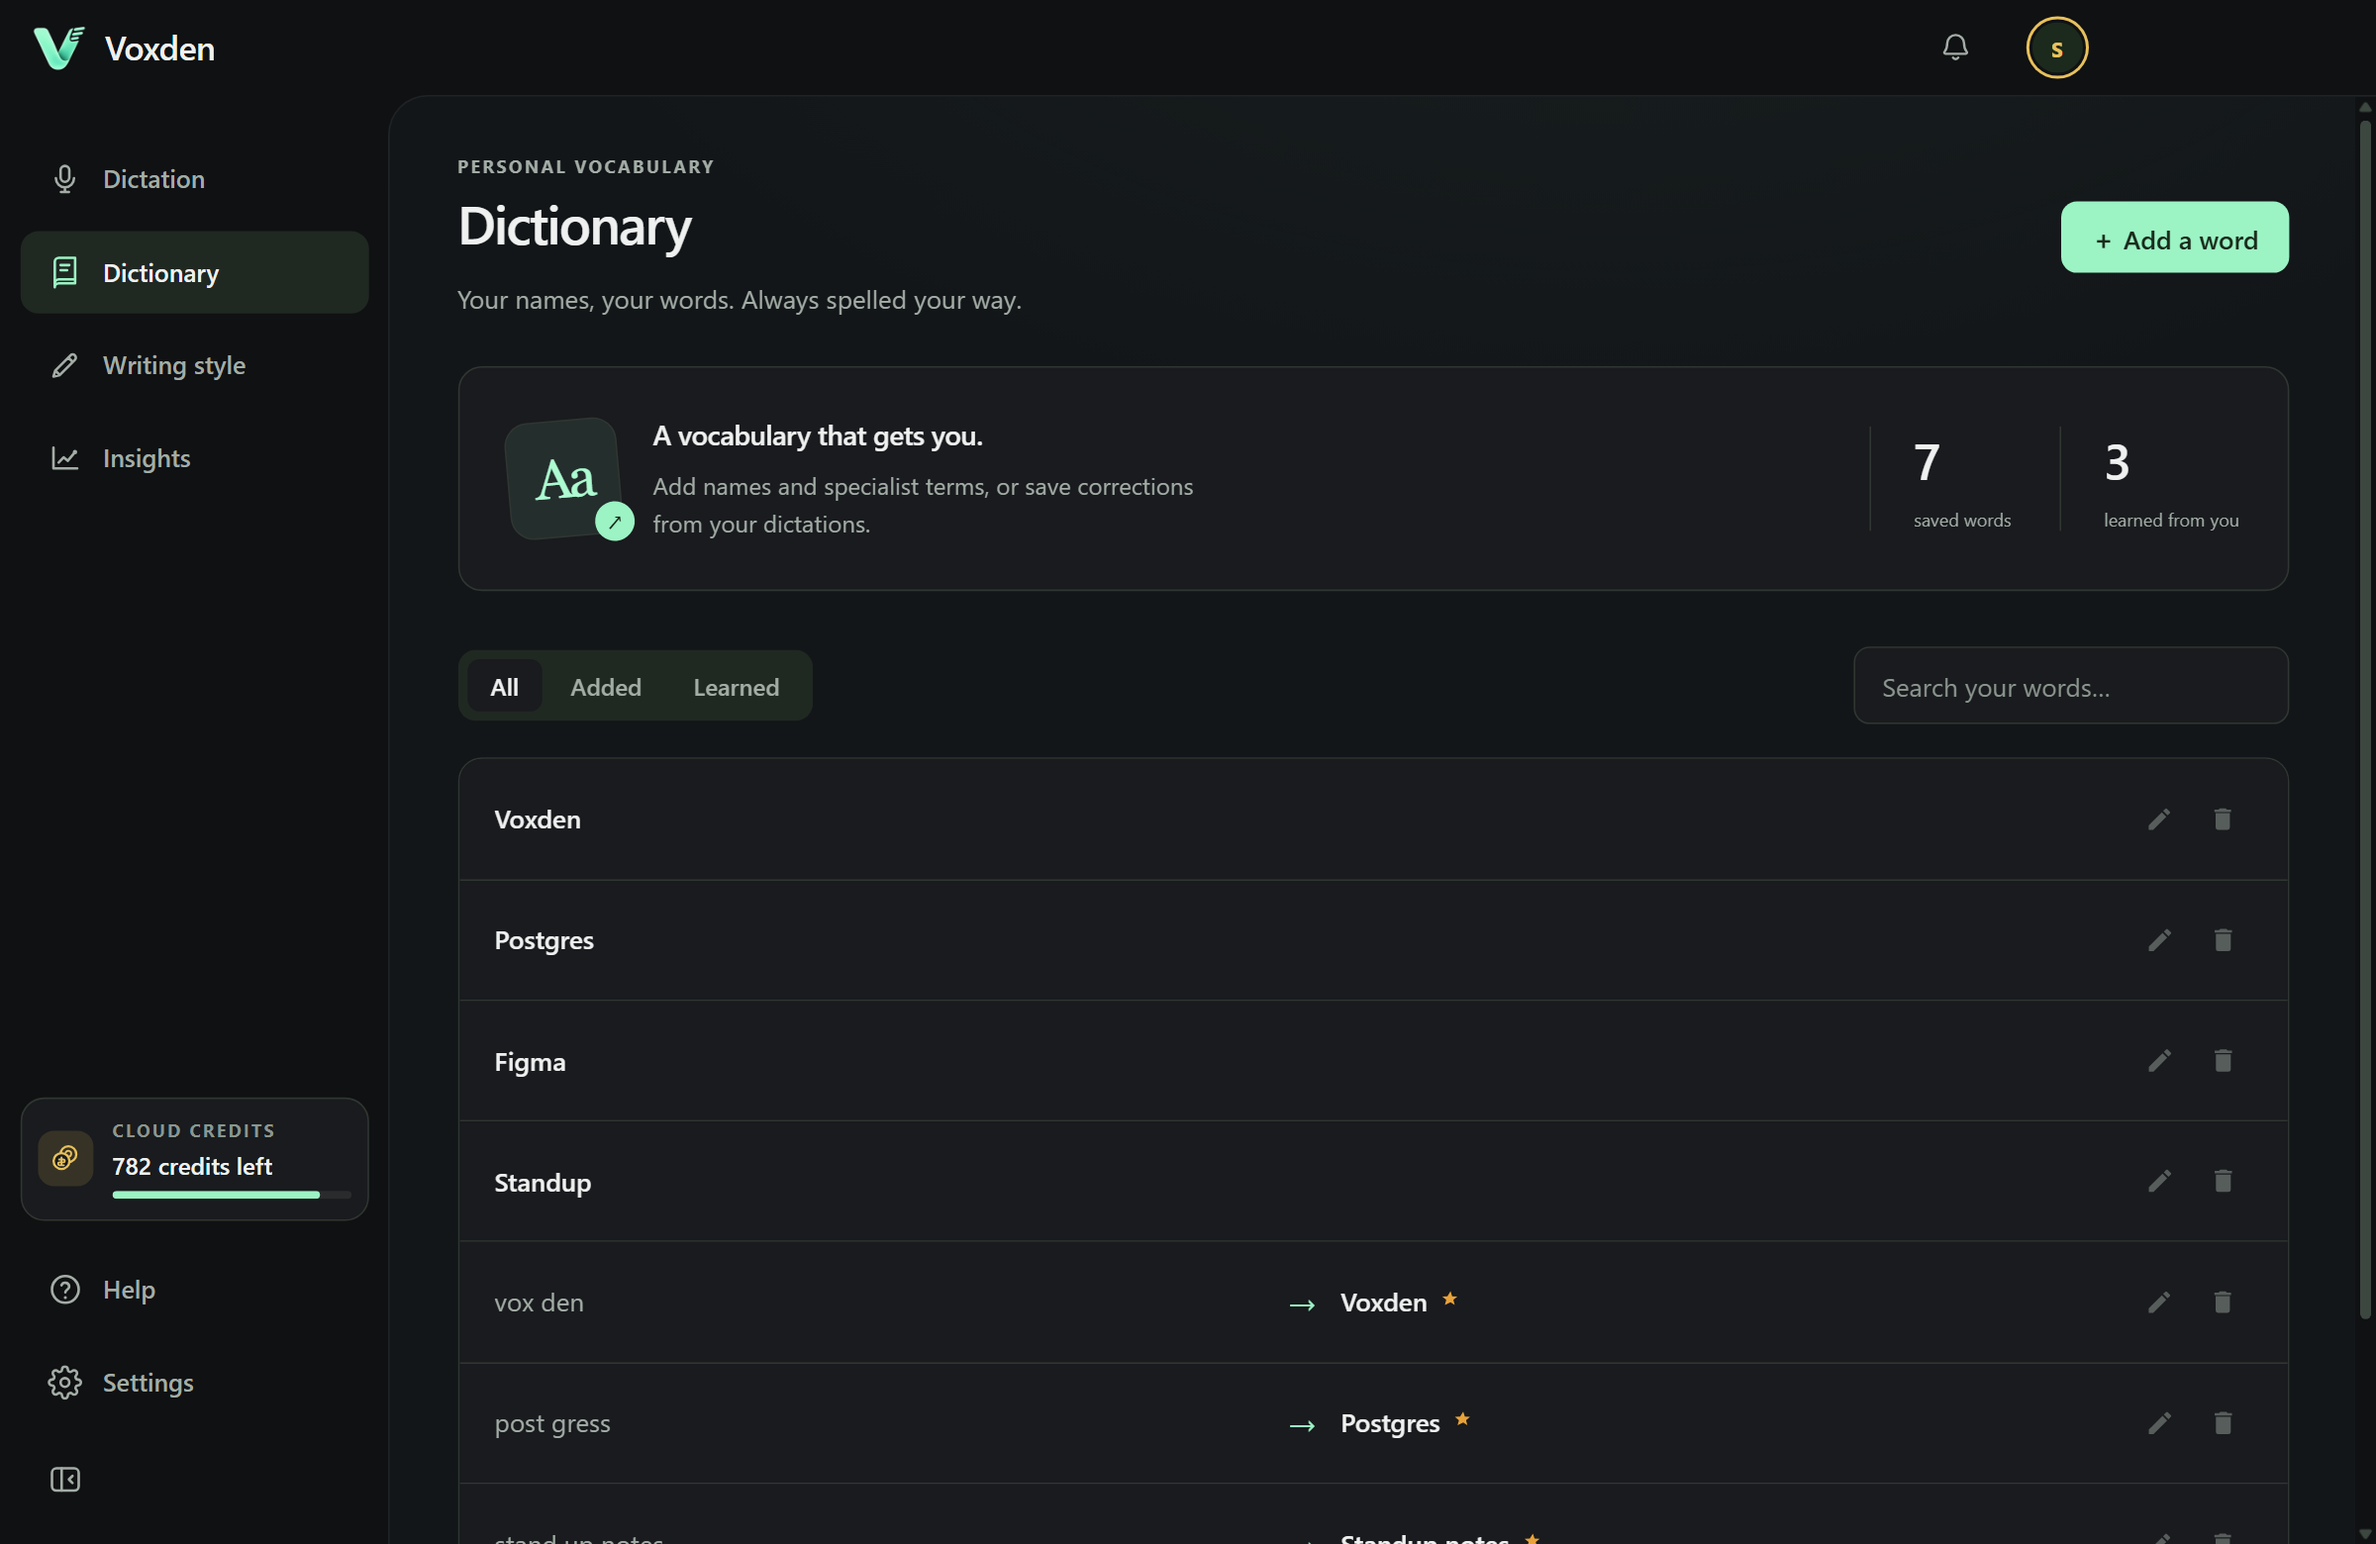
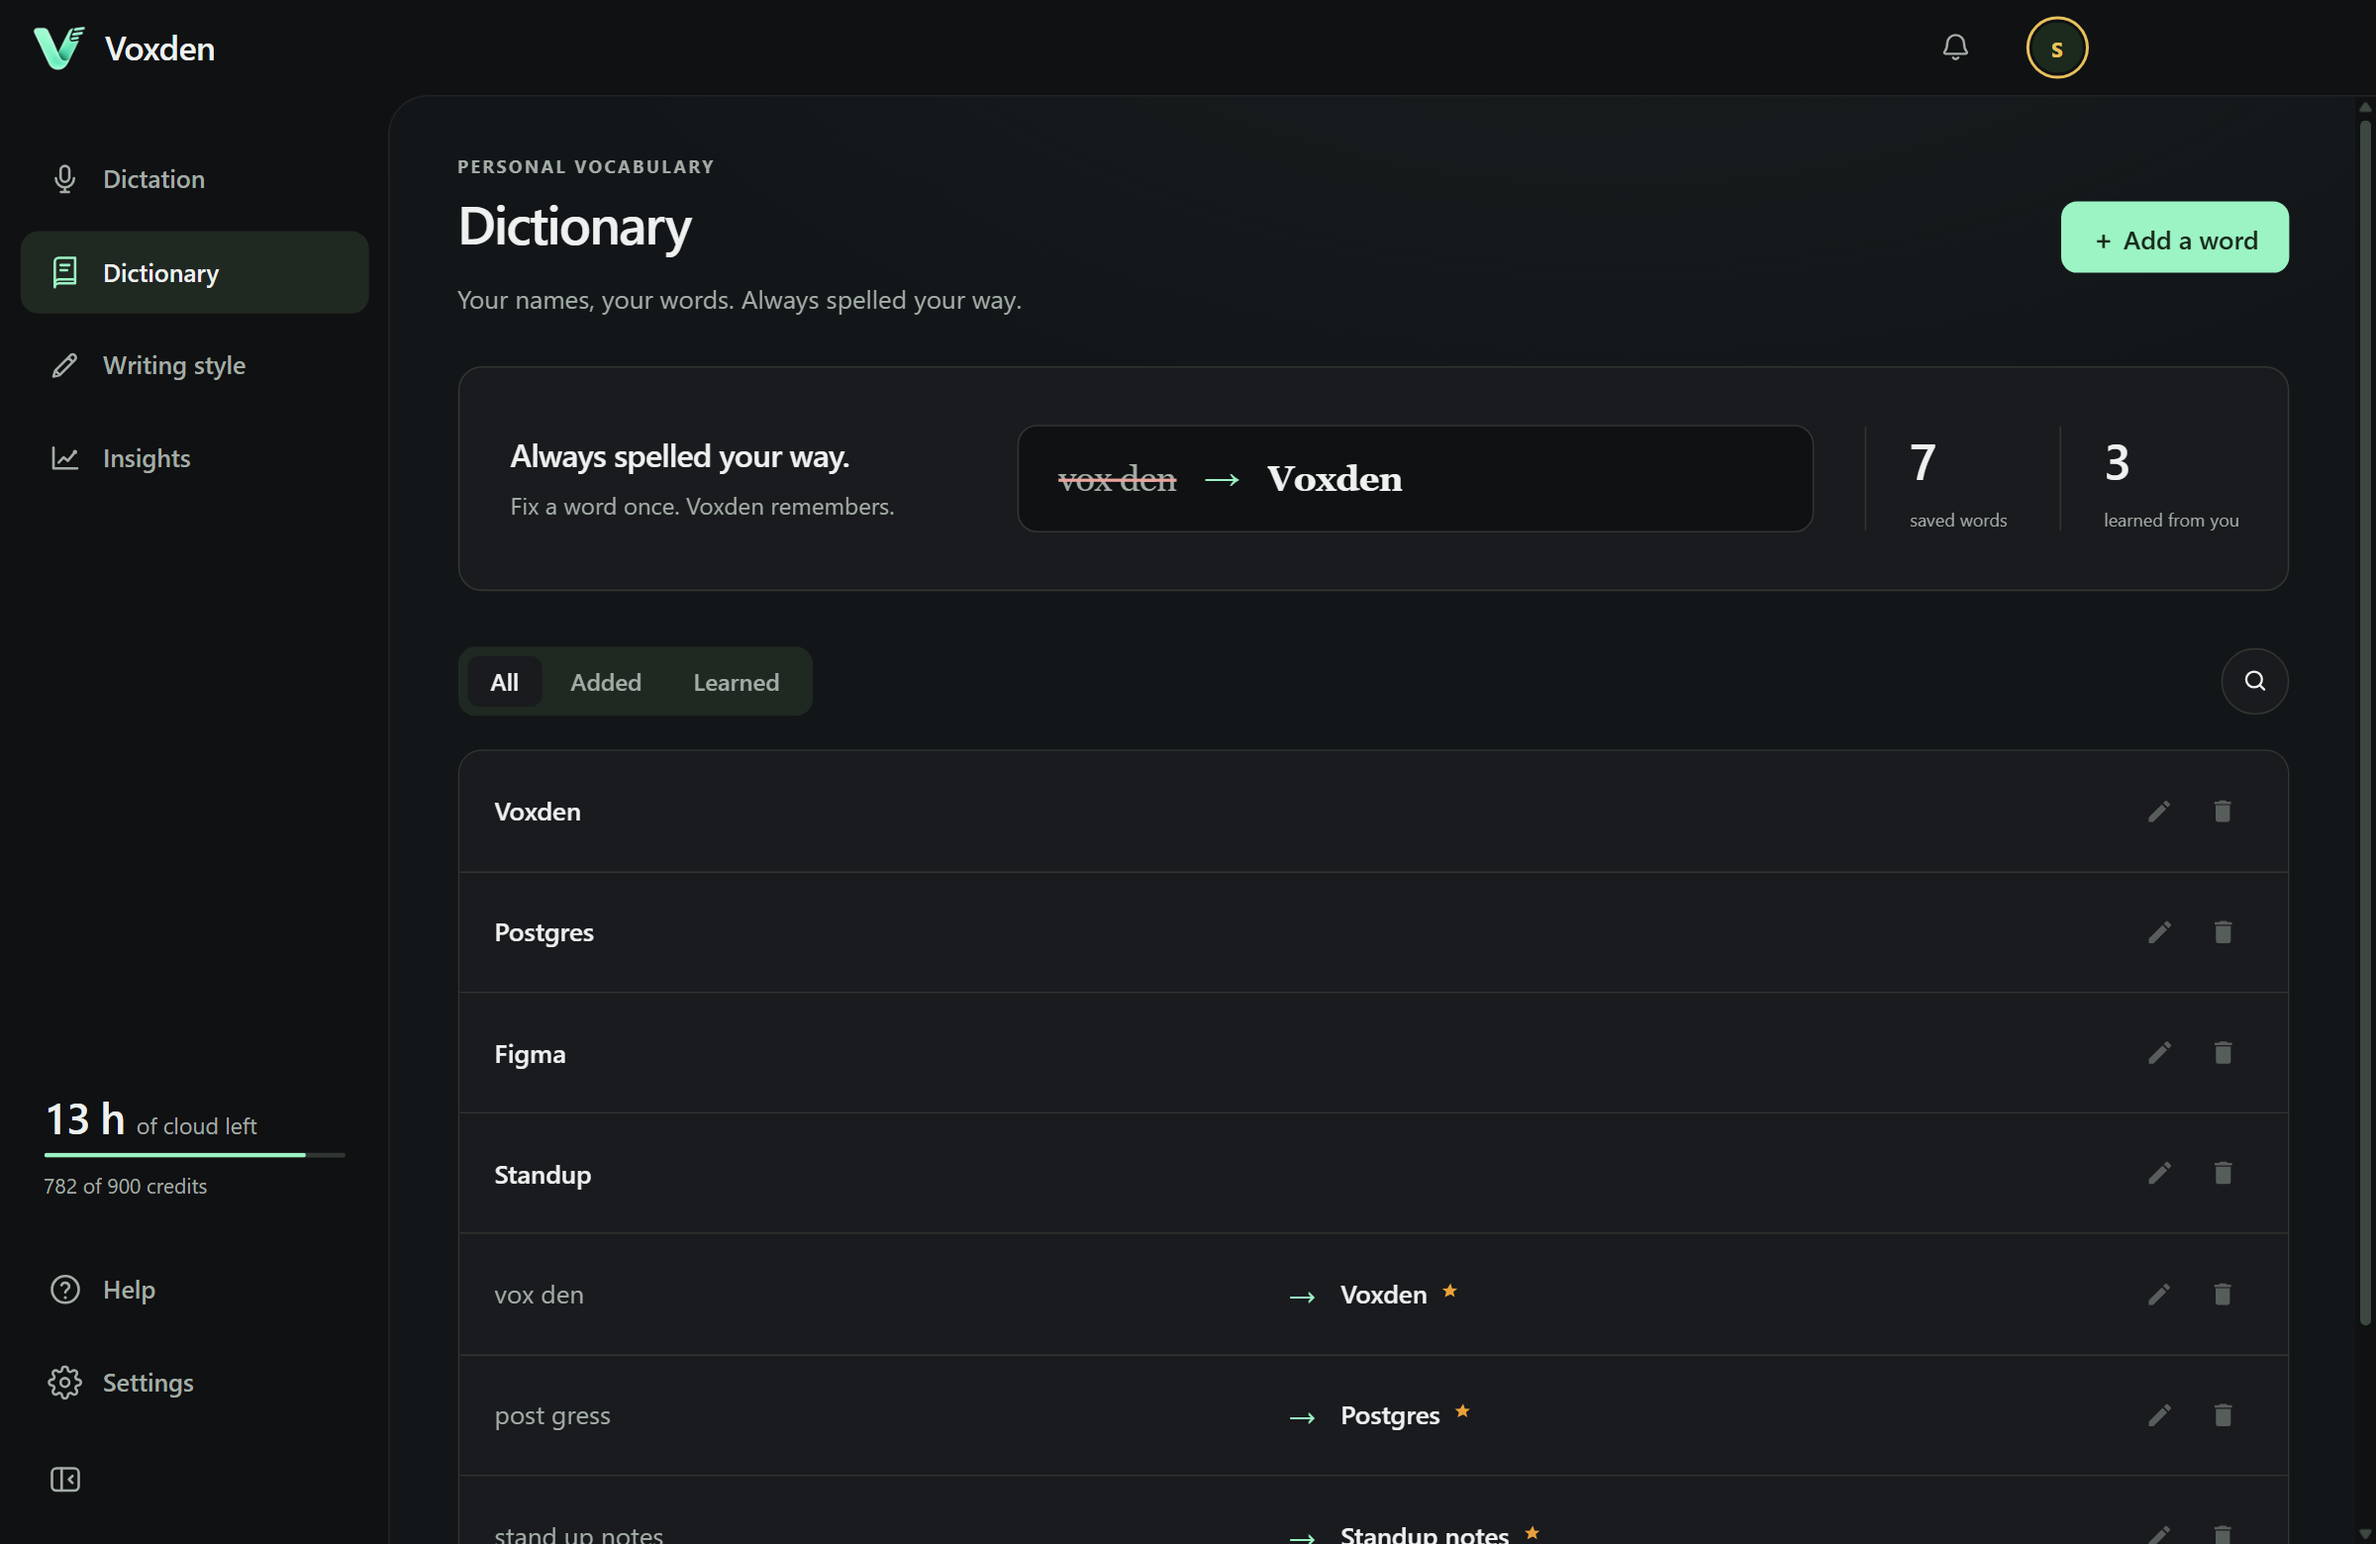
Show the 2.1.5 dashboard in the website screenshots
The product tour still showed the dashboard from before the redesign:
the full-width hero, the totals row and the old voice profile card, and
the flow bar images were Classic. All eleven shots are recaptured from
the real app, so the tour matches what 2.1.5 installs.

The capture now emulates reduced motion. The Dictation hero types its
endings and its app icons drift, so an ordinary run could catch a word
half typed; reduced motion holds it on "in writing." Which icons it
shows is still drawn at random on every load, and the Dictation shot is
the cleaner of two runs.

The four tour images are requested with ?v=2, so a browser or edge
cache still holding the old ones cannot answer for them.

diff --git a/site/index.html b/site/index.html
@@ -206,7 +206,7 @@
             </div>
             <figure class="feature-visual feature-visual-shot">
               <div class="feature-appbar" aria-hidden="true"><span class="feature-lights"><i></i><i></i><i></i></span><span class="feature-appbar-title"><img src="/assets/img/icon.png?v=2" alt="" width="14" height="14">Voxden</span></div>
-              <img class="feature-shot" src="/assets/img/dashboard-dictionary-panel.png" alt="The Voxden dictionary page: saved words and the corrections it learned" width="1925" height="1245" loading="lazy">
+              <img class="feature-shot" src="/assets/img/dashboard-dictionary-panel.png?v=2" alt="The Voxden dictionary page: saved words and the corrections it learned" width="1925" height="1245" loading="lazy">
             </figure>
           </article>
 
@@ -218,7 +218,7 @@
             </div>
             <figure class="feature-visual feature-visual-shot">
               <div class="feature-appbar" aria-hidden="true"><span class="feature-lights"><i></i><i></i><i></i></span><span class="feature-appbar-title"><img src="/assets/img/icon.png?v=2" alt="" width="14" height="14">Voxden</span></div>
-              <img class="feature-shot" src="/assets/img/dashboard-writing-style-panel.png" alt="The Voxden writing style page with a tone selected" width="1925" height="1245" loading="lazy">
+              <img class="feature-shot" src="/assets/img/dashboard-writing-style-panel.png?v=2" alt="The Voxden writing style page with a tone selected" width="1925" height="1245" loading="lazy">
             </figure>
           </article>
 
@@ -230,7 +230,7 @@
             </div>
             <figure class="feature-visual feature-visual-shot">
               <div class="feature-appbar" aria-hidden="true"><span class="feature-lights"><i></i><i></i><i></i></span><span class="feature-appbar-title"><img src="/assets/img/icon.png?v=2" alt="" width="14" height="14">Voxden</span></div>
-              <img class="feature-shot" src="/assets/img/dashboard-insights-panel.png" alt="The Voxden insights page: words, pace, streak and top apps for the week" width="1925" height="1245" loading="lazy">
+              <img class="feature-shot" src="/assets/img/dashboard-insights-panel.png?v=2" alt="The Voxden insights page: words, pace, streak and top apps for the week" width="1925" height="1245" loading="lazy">
             </figure>
           </article>
 
@@ -242,7 +242,7 @@
             </div>
             <figure class="feature-visual feature-visual-shot">
               <div class="feature-appbar" aria-hidden="true"><span class="feature-lights"><i></i><i></i><i></i></span><span class="feature-appbar-title"><img src="/assets/img/icon.png?v=2" alt="" width="14" height="14">Voxden</span></div>
-              <img class="feature-shot" src="/assets/img/dashboard-dictation-panel.png" alt="The Voxden dictation page with recent dictations" width="1925" height="1245" loading="lazy">
+              <img class="feature-shot" src="/assets/img/dashboard-dictation-panel.png?v=2" alt="The Voxden dictation page with recent dictations" width="1925" height="1245" loading="lazy">
             </figure>
           </article>
 

diff --git a/scripts/capture-site-shots.js b/scripts/capture-site-shots.js
@@ -339,6 +339,12 @@ async function emulate(win, width, height, transparent) {
   if (transparent) {
     await dbg.sendCommand('Emulation.setDefaultBackgroundColorOverride', { color: { r: 0, g: 0, b: 0, a: 0 } });
   }
+  // Reduced motion holds the Dictation hero on its first typed ending and
+  // parks the drifting app icons, so every run shoots the same frame instead of
+  // a word caught half typed.
+  await dbg.sendCommand('Emulation.setEmulatedMedia', {
+    features: [{ name: 'prefers-reduced-motion', value: 'reduce' }],
+  });
   await dbg.sendCommand('Emulation.setDeviceMetricsOverride', {
     width, height, deviceScaleFactor: SCALE, mobile: false,
   });

diff --git a/site/assets/img/README.md b/site/assets/img/README.md
@@ -7,21 +7,23 @@ offscreen Electron windows over the real preload bridge, with a scripted
 snapshot standing in for the main process. Nothing here is a mockup, and no
 account, engine or microphone is touched while they are taken.
 
-Everything is PNG, dark theme (the only theme Voxden ships), rendered at a
-device scale factor of 2, so each full-window file is exactly twice its CSS
-size.
+Everything is PNG, in the default Voxden (dark) theme, rendered at a device
+scale factor of 2, so each full-window file is exactly twice its CSS size. The
+windows emulate reduced motion, which holds the Dictation hero on its first
+typed ending and parks its app icons. Which icons it shows is drawn at random
+on every load.
 
 ### Full windows
 
 | File | Pixels | CSS size | Notes |
 | --- | --- | --- | --- |
-| `dashboard-dictation.png` | 2400 × 1560 | 1200 × 780 | Dictation page: greeting, the "Your thoughts, in writing." hero, stats, recent dictations, voice profile. Sidebar expanded. Display name is a stand-in, "Sam". |
+| `dashboard-dictation.png` | 2400 × 1560 | 1200 × 780 | Dictation page: greeting, the "Your thoughts, in writing." hero with recent dictations under it, and the week, voice profile and speaking pace cards beside them. Sidebar expanded, showing cloud left as time. Display name is a stand-in, "Sam". |
 | `dashboard-dictionary.png` | 2400 × 1560 | 1200 × 780 | Dictionary page with seven entries — four saved words and three corrections learned from dictations. |
 | `dashboard-writing-style.png` | 2400 × 1560 | 1200 × 780 | Writing style page, Work context selected with its Casual tone, and the live preview card showing that tone applied to the sample sentence. |
-| `dashboard-insights.png` | 2400 × 1560 | 1200 × 780 | Insights page, "Your usage" tab, All time range: words, dictations, streak, the milestone timeline, pace, time saved and fix counts. |
+| `dashboard-insights.png` | 2400 × 1560 | 1200 × 780 | Insights page, "Your usage" tab, All time range: words, dictations, streak, the milestone bookshelf and timeline, pace, time saved and fix counts. |
 | `signin-gate.png` | 2400 × 1560 | 1200 × 780 | The `#signin-gate` dialog with Google offered and the email fallback below, over the blurred Dictation page. |
-| `flow-bar-recording.png` | 404 × 168 | 202 × 84 | The flow bar overlay recording, waveform shaped by a synthetic level. **Transparent background** (RGBA). |
-| `flow-bar-idle.png` | 404 × 168 | 202 × 84 | The same overlay idle and at rest. **Transparent background** (RGBA). |
+| `flow-bar-recording.png` | 336 × 160 | 168 × 80 | The Island flow bar recording, waveform shaped by a synthetic level. **Transparent background** (RGBA). |
+| `flow-bar-idle.png` | 336 × 160 | 168 × 80 | The same overlay idle and at rest. **Transparent background** (RGBA). |
 
 The two flow bar images share one crop box — the recording pill plus 24 px of
 padding — so they are interchangeable in a layout. The pill morphs between
